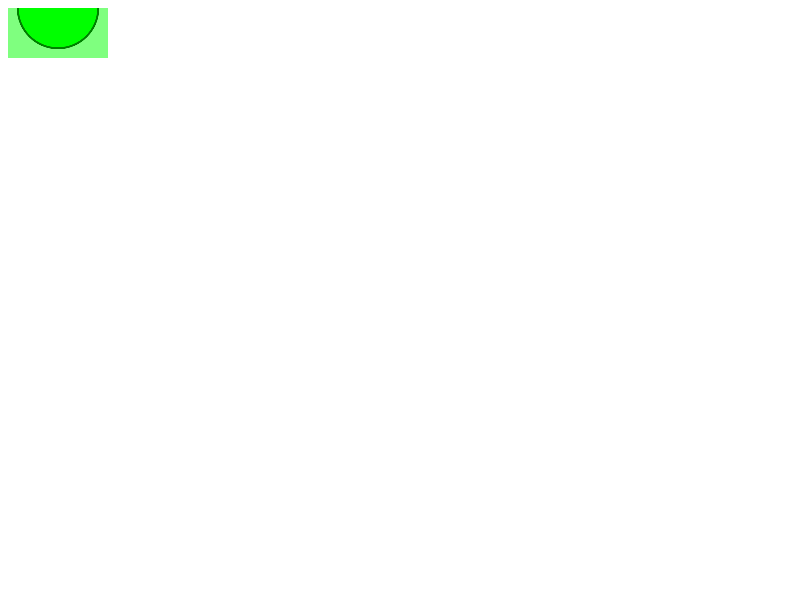
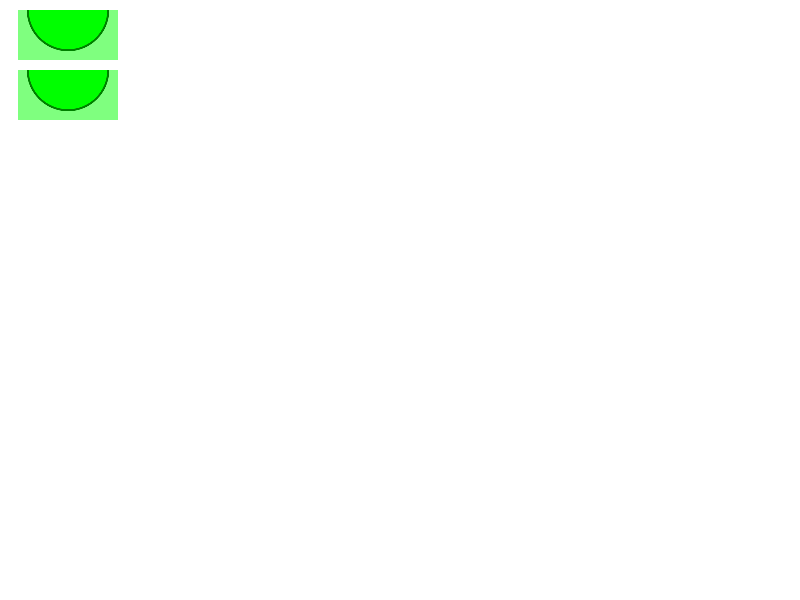
-webkit-cross-fade doesn't respect background-size https://bugs.webkit.org/show_bug.cgi?id=74902 <rdar://problem/10605289>
Reviewed by Simon Fraser.

CrossfadeGeneratedImage should report its intrinsic size, instead of
improperly conforming to the size of its container.

Test: css3/images/cross-fade-background-size.html

* platform/graphics/CrossfadeGeneratedImage.h:
(WebCore::CrossfadeGeneratedImage::setContainerSize):
(WebCore::CrossfadeGeneratedImage::usesContainerSize):
(WebCore::CrossfadeGeneratedImage::hasRelativeWidth):
(WebCore::CrossfadeGeneratedImage::hasRelativeHeight):
(WebCore::CrossfadeGeneratedImage::size):

Add a test (cross-fade-background-size.html) which ensures that the
background-size CSS property interacts reasonably with -webkit-cross-fade.

Modify cross-fade-overflow-position to hit both the tiled and non-tiled codepaths.

* css3/images/cross-fade-background-size.html: Added.
* css3/images/cross-fade-overflow-position.html:
* css3/images/resources/stripes-large.png: Added.
* css3/images/resources/stripes-small.png: Added.
* platform/mac/css3/images/cross-fade-background-size-expected.png: Added.
* platform/mac/css3/images/cross-fade-background-size-expected.txt: Added.
* platform/mac/css3/images/cross-fade-overflow-position-expected.png:
* platform/mac/css3/images/cross-fade-overflow-position-expected.txt:

git-svn-id: http://svn.webkit.org/repository/webkit/trunk/LayoutTests@105172 268f45cc-cd09-0410-ab3c-d52691b4dbfc

Changed region(s): [[0.0, 0.0, 0.1562, 0.21]]

diff --git a/css3/images/cross-fade-overflow-position.html b/css3/images/cross-fade-overflow-position.html
@@ -1,5 +1,6 @@
 <html>
 <head>
+    <title>The crossfade should appear as two *bottom* halves of a green circle, with a paler green background.</title>
     <style>
     #image {
         background-image: -webkit-cross-fade(url(resources/half-circles.svg), url(resources/green-100.png), 50%);
@@ -7,23 +8,34 @@
         background-repeat: no-repeat;
     }
 
-    #container {
+    #tiledImage {
+        background-image: -webkit-cross-fade(url(resources/half-circles.svg), url(resources/green-100.png), 50%);
+        width: 300px; height: 300px;
+    }
+
+    div.container {
         overflow: hidden;
         height: 50px;
+        width: 100px;
+        margin: 10px;
     }
     </style>
     <script>
     function load()
     {
-        var container = document.getElementById("container");
-        container.scrollTop = container.scrollHeight;
+        var normalContainer = document.getElementById("normal");
+        normalContainer.scrollTop = normalContainer.scrollHeight;
+        var tiledContainer = document.getElementById("tiled");
+        tiledContainer.scrollTop = tiledContainer.scrollHeight;
     }
     </script>
 </head>
 <body onload="load()">
-    <div id="container">
-        <!-- The crossfade should appear as the *bottom* half of a green circle, with a paler green background -->
+    <div id="normal" class="container">
         <div id="image"></div>
+    </div>
+    <div id="tiled" class="container">
+        <div id="tiledImage"></div>
     </div>
 </body>
 </html>

diff --git a/css3/images/cross-fade-background-size.html b/css3/images/cross-fade-background-size.html
@@ -1,0 +1,51 @@
+<html>
+<head>
+<title>There should be four bars, equivalent except for the length of the bar.</title>
+<style>
+
+div
+{
+    width: 200px;
+    height: 50px;
+}
+
+#compositeTiledNormal
+{
+    background-image: url(resources/stripes-large.png);
+    -webkit-transform: translateZ(0);
+    background-size: 10px 50px;
+}
+
+#compositeTiledCrossfade
+{
+    background-image: -webkit-cross-fade(url(resources/stripes-large.png), url(resources/stripes-small.png), 1%);
+    -webkit-transform: translateZ(0);
+    background-size: 10px 50px;
+}
+
+
+#normal
+{
+    background-image: url(resources/stripes-large.png);
+    background-size: 10px 50px;
+    background-repeat: no-repeat;
+}
+
+#crossfade
+{
+    background-image: -webkit-cross-fade(url(resources/stripes-large.png), url(resources/stripes-small.png), 1%);
+    background-size: 10px 50px;
+    background-repeat: no-repeat;
+}
+
+
+</style>
+</head>
+<body>
+<div id="compositeTiledNormal"></div><br/>
+<div id="compositeTiledCrossfade"></div>
+<br/><br/>
+<div id="normal"></div><br/>
+<div id="crossfade"></div>
+</body>
+</html>
